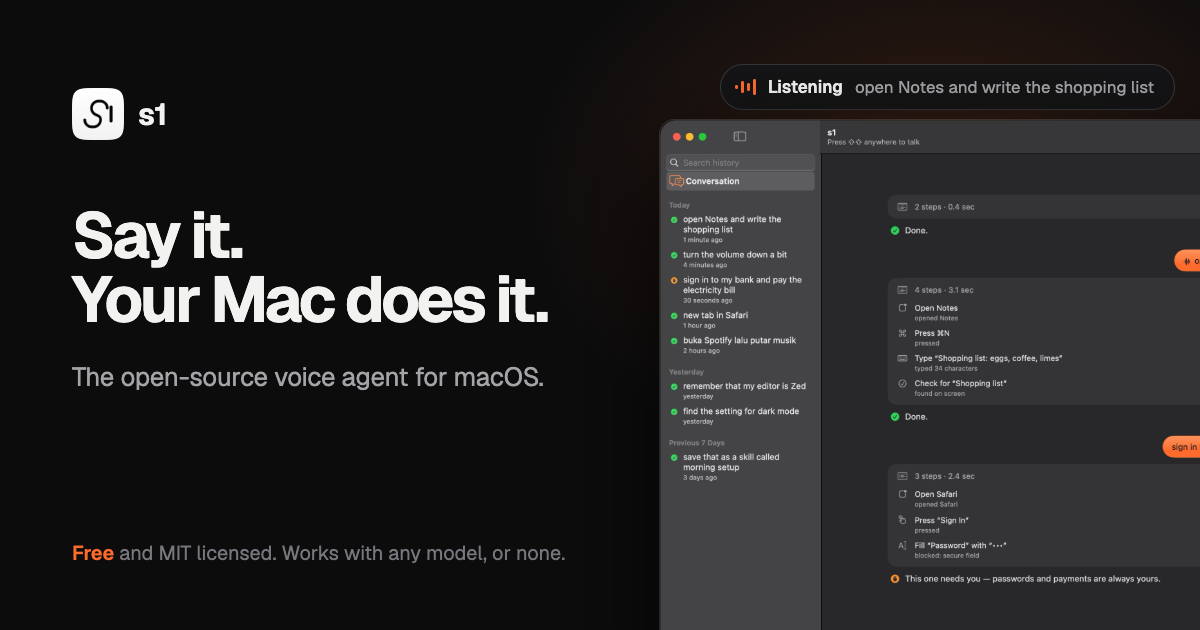
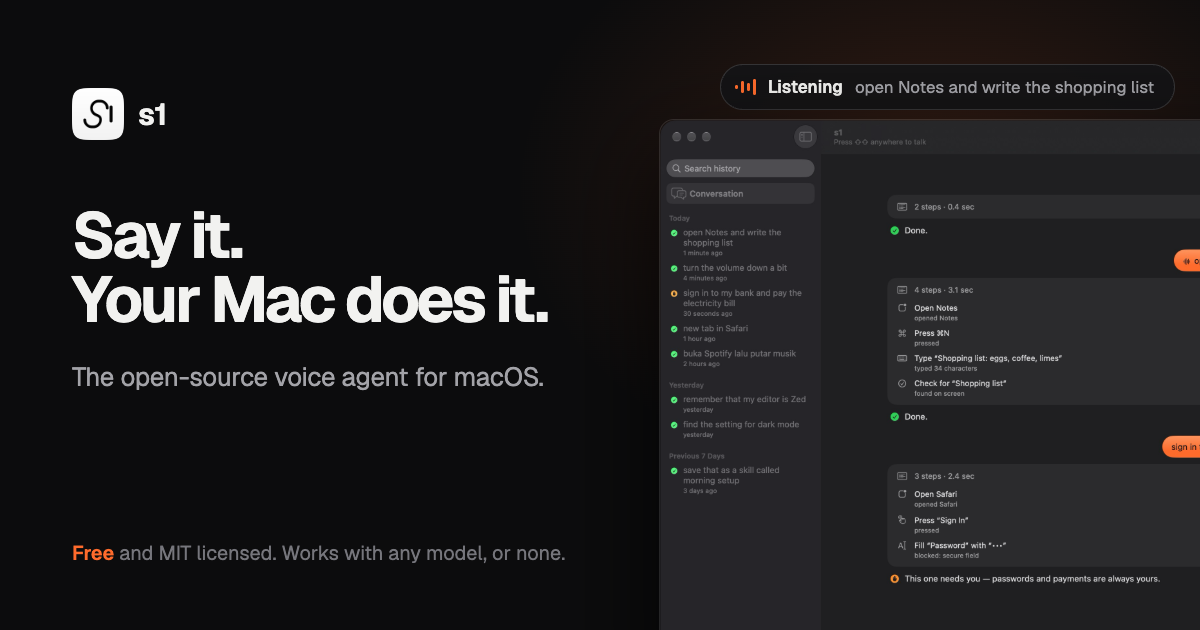
New macOS 26 screenshot and social card, v0.3.2

diff --git a/index.html b/index.html
@@ -45,7 +45,7 @@
             "description": "A free, open-source, voice-first agent for macOS. A built-in grammar handles everyday commands with no model; an optional Judge (System 1) checks each step and an optional Reasoner (System 2), an LLM you choose, handles anything new. Every action passes a safety gate and every run is logged.",
             "applicationCategory": "UtilitiesApplication",
             "operatingSystem": "macOS 26 or later",
-            "softwareVersion": "0.3.1",
+            "softwareVersion": "0.3.2",
             "license": "https://opensource.org/licenses/MIT",
             "isAccessibleForFree": true,
             "offers": { "@type": "Offer", "price": "0", "priceCurrency": "USD" },
